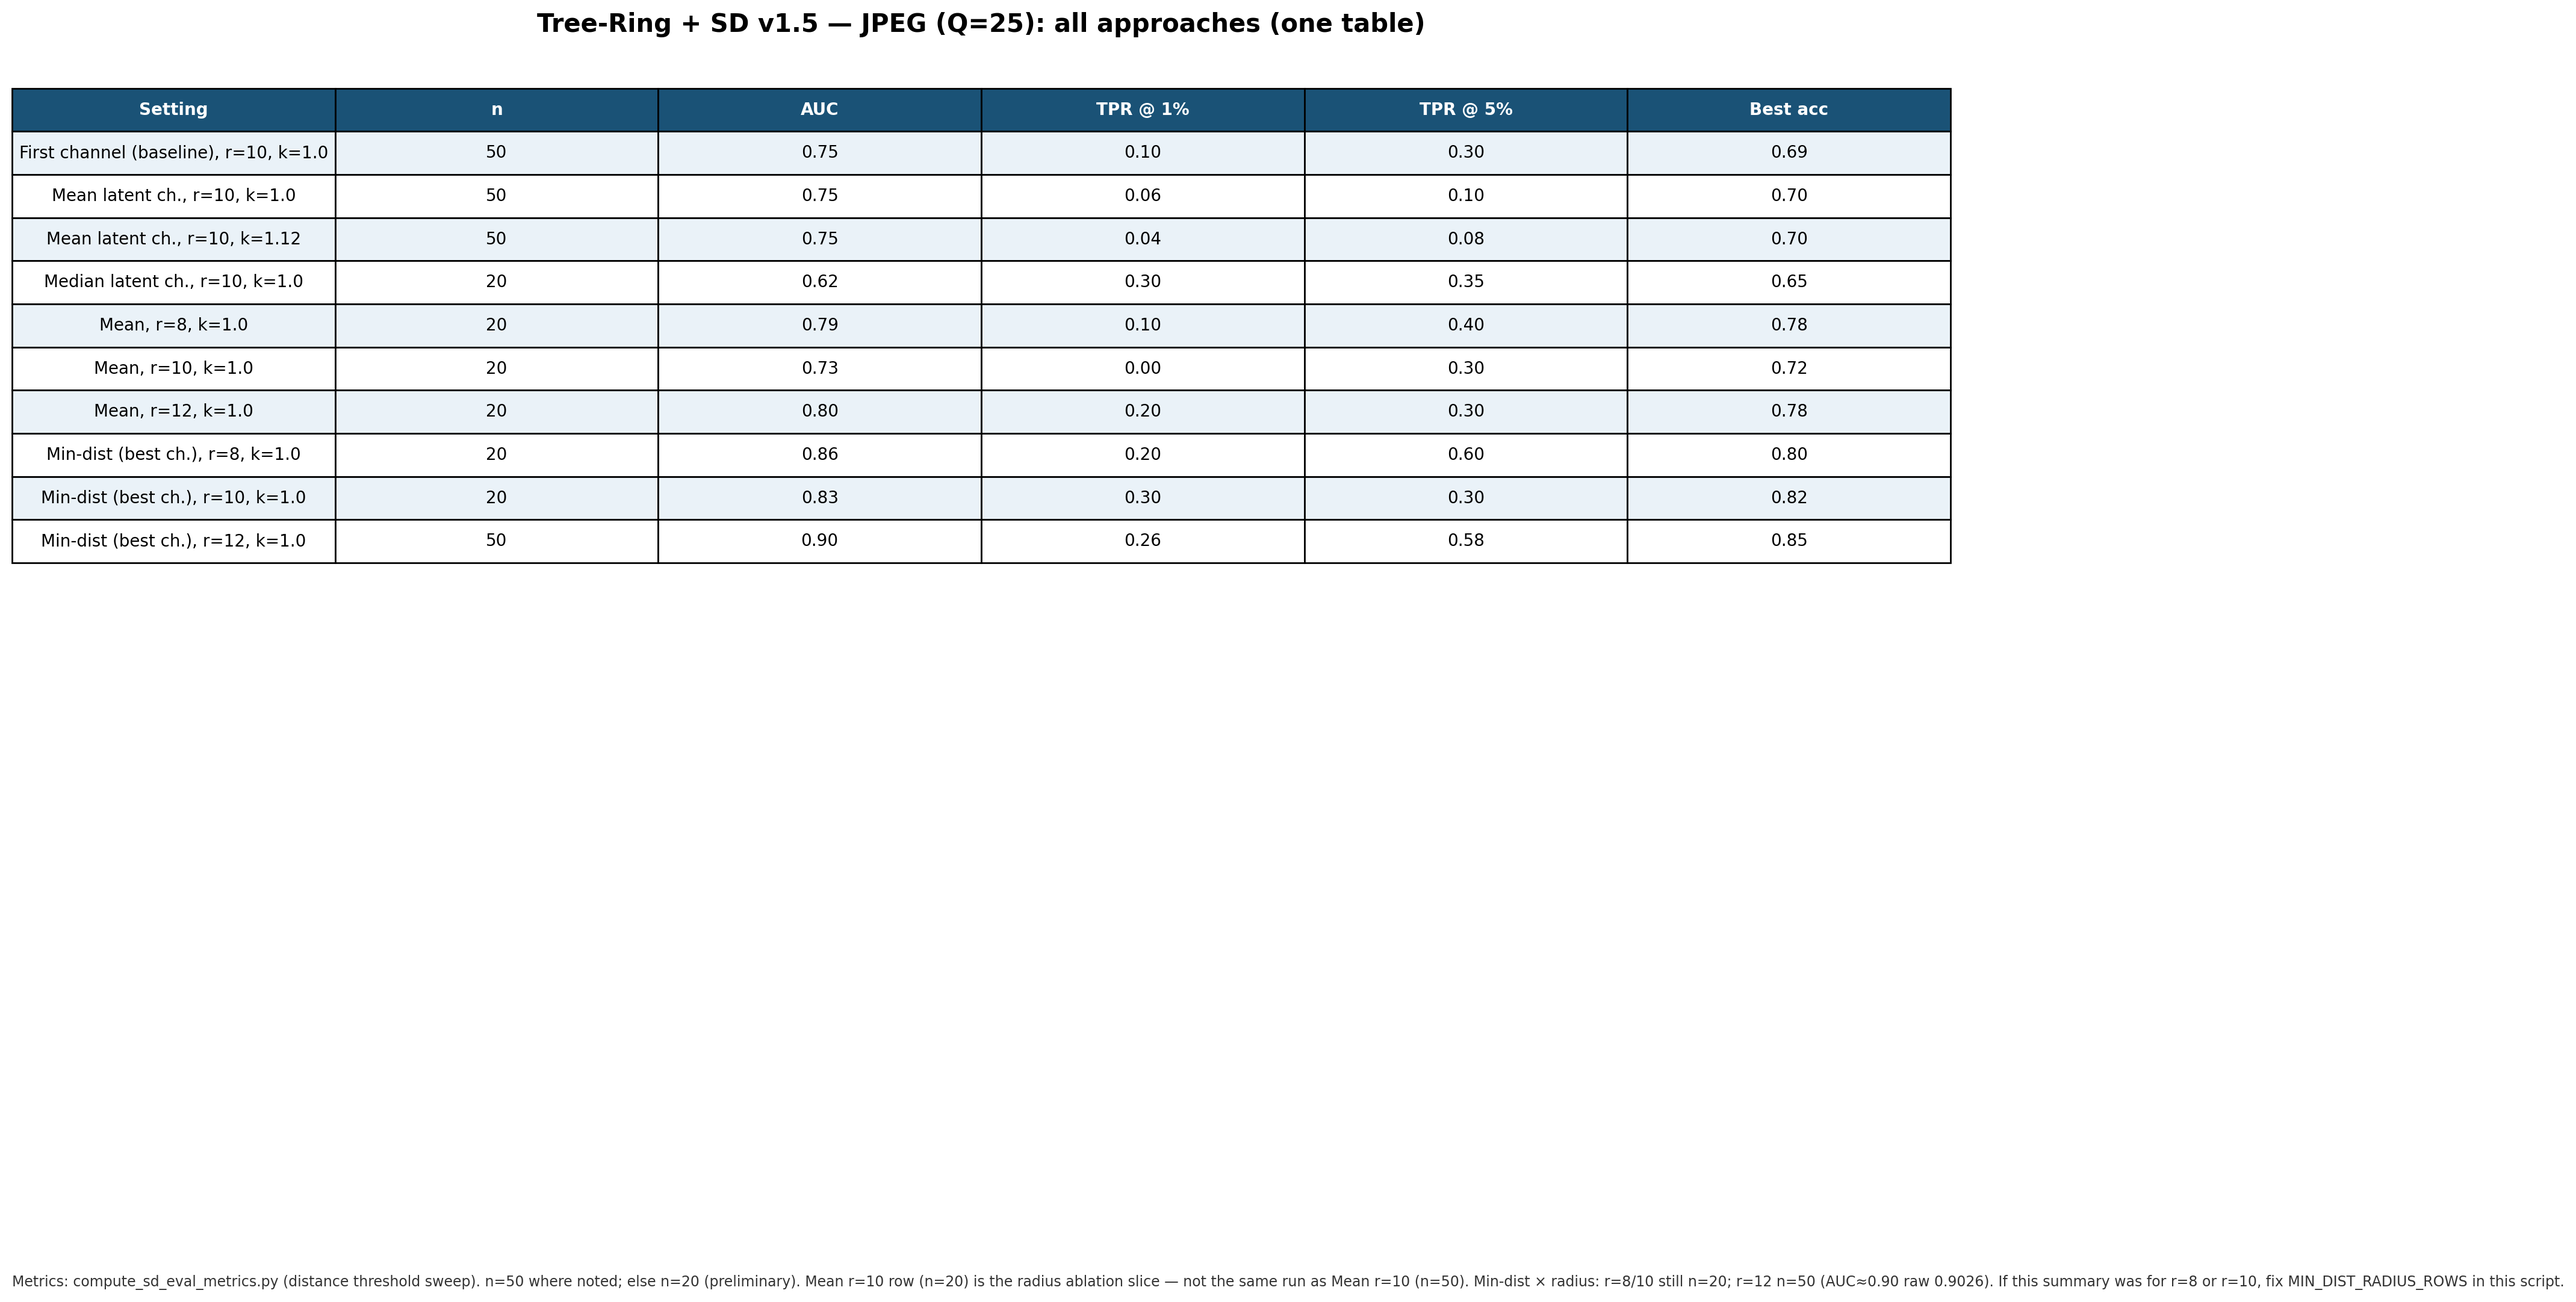
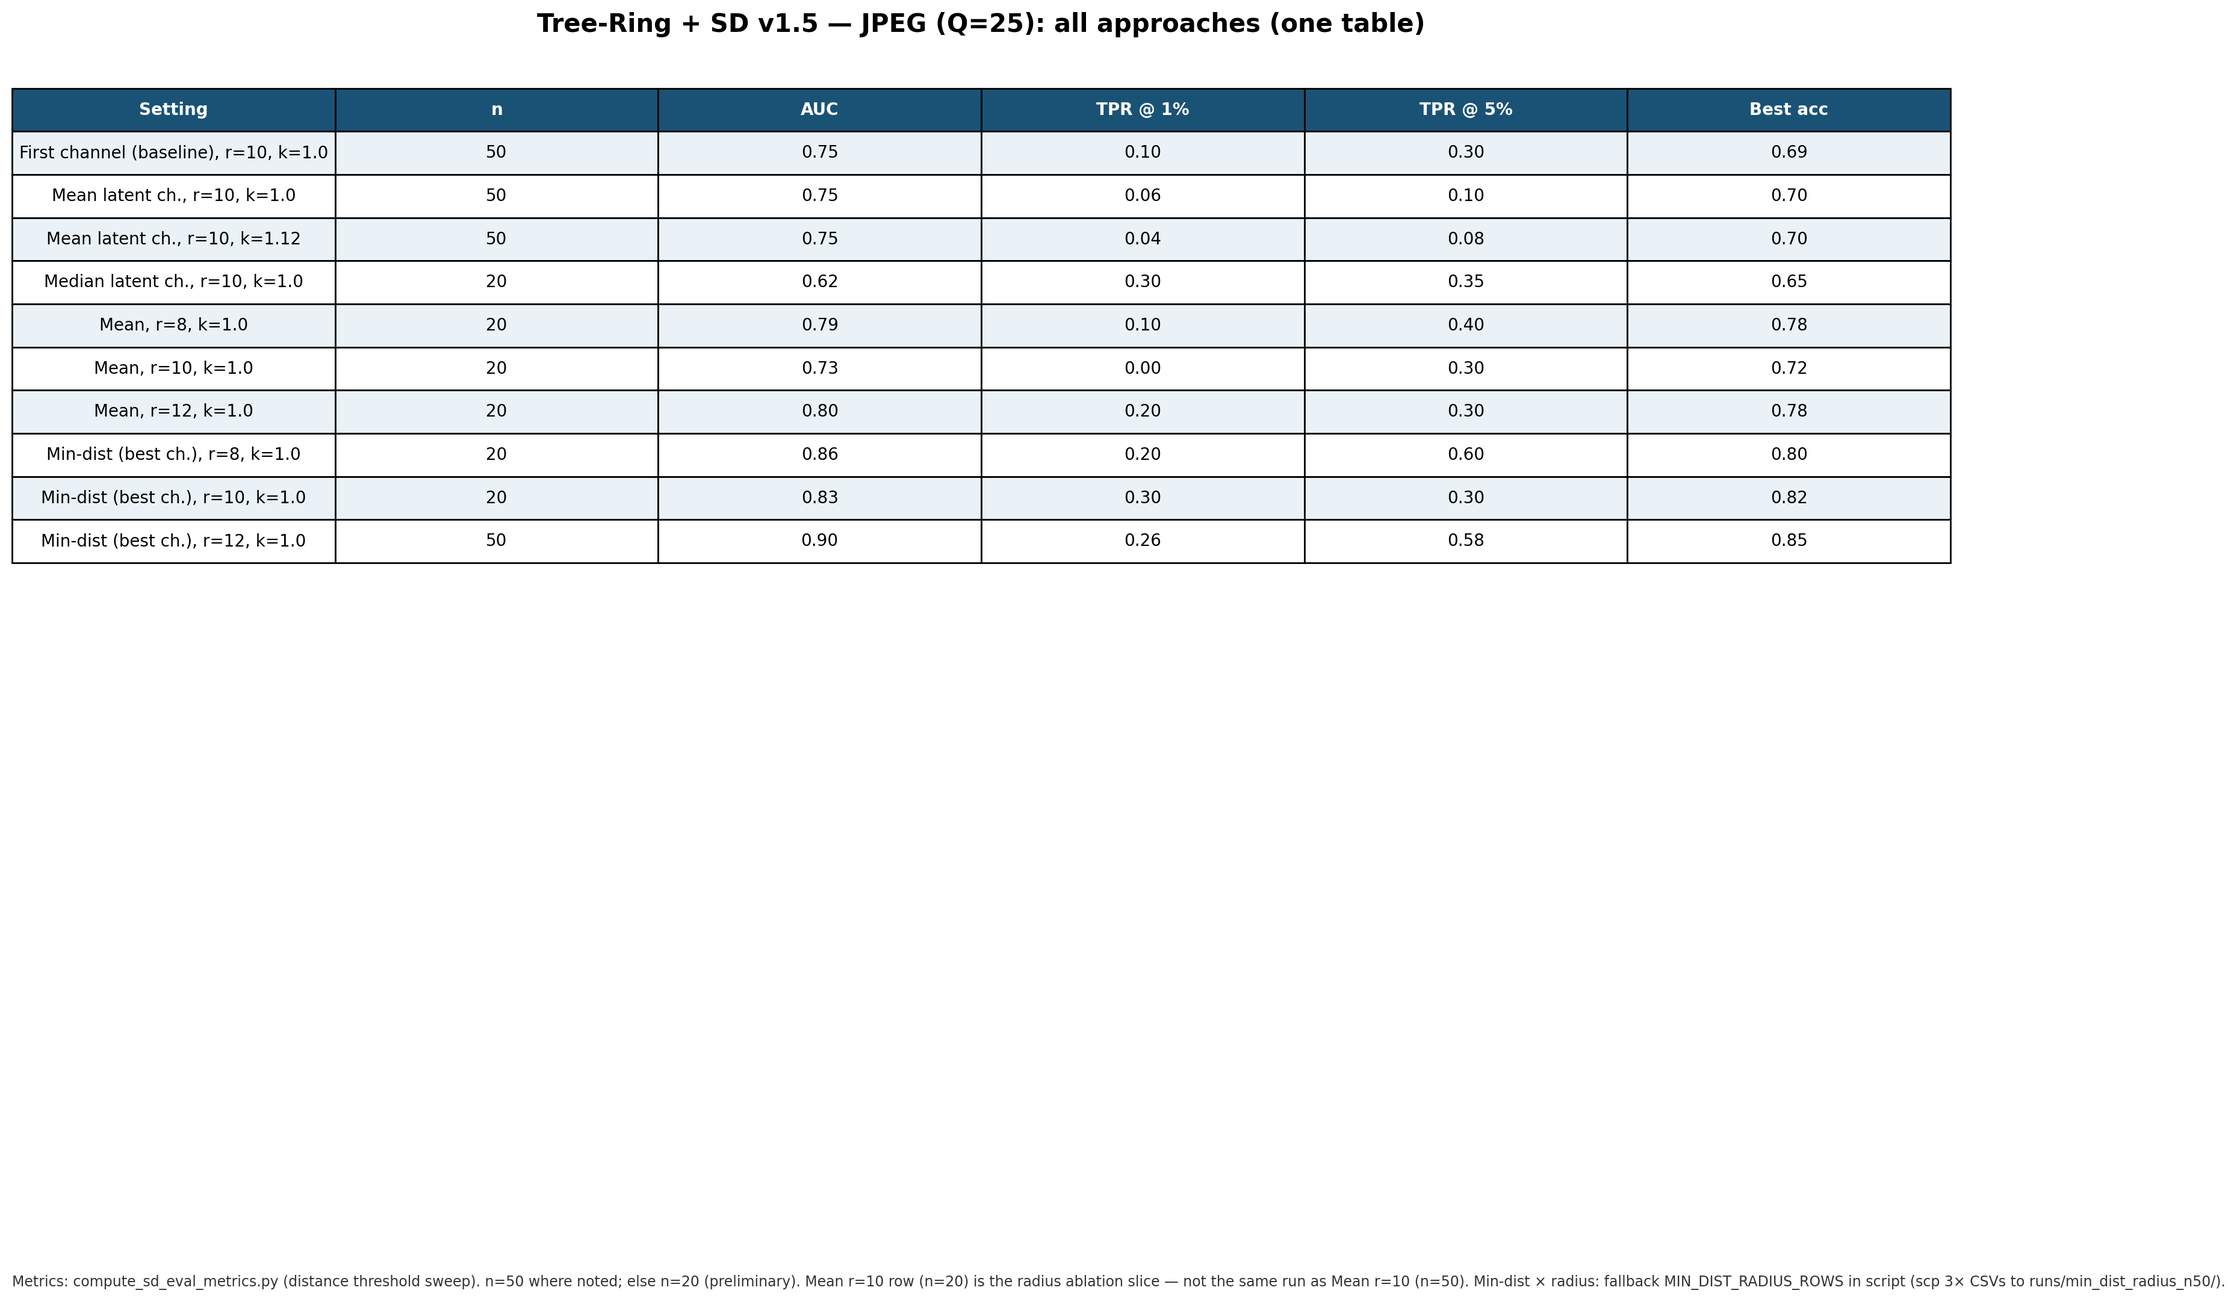
Auto-load min-dist r=8/10/12 n=50 metrics from runs/min_dist_radius_n50 CSVs
Made-with: Cursor

diff --git a/make_jpeg_approaches_table.py b/make_jpeg_approaches_table.py
@@ -4,12 +4,14 @@ Render JPEG-defense approaches as one combined table PNG (slides / reports).
 Run from repo root:
   MPLCONFIGDIR=$PWD/.mplconfig python3 make_jpeg_approaches_table.py
 
-MIN_DIST_RADIUS_ROWS: JPEG Q25, WatGPU. r=8/10 still n=20 until n=50 metrics pasted.
+Optional: copy metrics_jpeg_min_dist_r{8,10,12}_n50.csv into
+experiments/jpeg_defense/runs/min_dist_radius_n50/ — table uses them automatically.
 """
 
 from __future__ import annotations
 
 import argparse
+import csv
 from pathlib import Path
 
 import matplotlib
@@ -17,12 +19,40 @@ import matplotlib
 matplotlib.use("Agg")
 import matplotlib.pyplot as plt  # noqa: E402
 
-# (n, auc, tpr1, tpr5, best acc) — 2 decimals; r=12 n=50 from WatGPU (AUC 0.9026 raw)
+# Fallback when runs/min_dist_radius_n50/*.csv are missing (mixed n=20 / n=50).
 MIN_DIST_RADIUS_ROWS: dict[int, tuple[str, str, str, str, str]] = {
     8: ("20", "0.86", "0.20", "0.60", "0.80"),
     10: ("20", "0.83", "0.30", "0.30", "0.82"),
     12: ("50", "0.90", "0.26", "0.58", "0.85"),
 }
+
+
+def _load_min_dist_n50_from_csv(root: Path) -> dict[int, tuple[str, str, str, str, str]] | None:
+    """If all three metrics CSVs exist, return rows from the jpeg line; else None."""
+    d = root / "experiments/jpeg_defense/runs/min_dist_radius_n50"
+    out: dict[int, tuple[str, str, str, str, str]] = {}
+    for r in (8, 10, 12):
+        p = d / f"metrics_jpeg_min_dist_r{r}_n50.csv"
+        if not p.is_file():
+            return None
+        with open(p, newline="") as f:
+            reader = csv.DictReader(f)
+            jpeg = None
+            for row in reader:
+                if (row.get("attack") or "").strip() == "jpeg":
+                    jpeg = row
+                    break
+        if jpeg is None:
+            return None
+        n_wm = int(float(jpeg["n_wm"]))
+        out[r] = (
+            str(n_wm),
+            f"{float(jpeg['auc']):.2f}",
+            f"{float(jpeg['tpr_at_1pct_fpr']):.2f}",
+            f"{float(jpeg['tpr_at_5pct_fpr']):.2f}",
+            f"{float(jpeg['best_accuracy']):.2f}",
+        )
+    return out
 
 
 def main() -> None:
@@ -40,6 +70,14 @@ def main() -> None:
     out_path = root / args.out
     out_path.parent.mkdir(parents=True, exist_ok=True)
 
+    loaded = _load_min_dist_n50_from_csv(root)
+    min_dist_rows = loaded or MIN_DIST_RADIUS_ROWS
+    min_dist_source = (
+        "all n=50 from experiments/jpeg_defense/runs/min_dist_radius_n50/*.csv"
+        if loaded
+        else "fallback MIN_DIST_RADIUS_ROWS in script (scp 3× CSVs to runs/min_dist_radius_n50/)"
+    )
+
     hdr = ["Setting", "n", "AUC", "TPR @ 1%", "TPR @ 5%", "Best acc"]
     rows: list[list[str]] = [
         # r=10 default mask; detector / key tweaks
@@ -51,18 +89,18 @@ def main() -> None:
         ["Mean, r=8, k=1.0", "20", "0.79", "0.10", "0.40", "0.78"],
         ["Mean, r=10, k=1.0", "20", "0.73", "0.00", "0.30", "0.72"],
         ["Mean, r=12, k=1.0", "20", "0.80", "0.20", "0.30", "0.78"],
-        # Min-dist + radius (JPEG); r=8/10 n=20, r=12 n=50 unless all reruns pasted
+        # Min-dist + radius (JPEG)
         [
             "Min-dist (best ch.), r=8, k=1.0",
-            *MIN_DIST_RADIUS_ROWS[8],
+            *min_dist_rows[8],
         ],
         [
             "Min-dist (best ch.), r=10, k=1.0",
-            *MIN_DIST_RADIUS_ROWS[10],
+            *min_dist_rows[10],
         ],
         [
             "Min-dist (best ch.), r=12, k=1.0",
-            *MIN_DIST_RADIUS_ROWS[12],
+            *min_dist_rows[12],
         ],
     ]
 
@@ -102,8 +140,7 @@ def main() -> None:
         "Metrics: compute_sd_eval_metrics.py (distance threshold sweep). "
         "n=50 where noted; else n=20 (preliminary). "
         "Mean r=10 row (n=20) is the radius ablation slice — not the same run as Mean r=10 (n=50). "
-        "Min-dist × radius: r=8/10 still n=20; r=12 n=50 (AUC≈0.90 raw 0.9026). "
-        "If this summary was for r=8 or r=10, fix MIN_DIST_RADIUS_ROWS in this script.",
+        f"Min-dist × radius: {min_dist_source}.",
         fontsize=8.5,
         color="#333",
         verticalalignment="bottom",

diff --git a/experiments/jpeg_defense/ATTEMPTS.md b/experiments/jpeg_defense/ATTEMPTS.md
@@ -23,16 +23,13 @@
 **WatGPU folder:** `outputs_tree_ring_sd_eval_jpeg_radius/`  
 **Confirm at n=50** for r=8 and/or r=12 before strong claims.
 
-## C. Min-dist + Fourier radius (JPEG only, k=1.0)
+## C. Min-dist + Fourier radius (JPEG only, k=1.0), **all n=50**
 
-| radius | n | AUC | TPR @ 1% | TPR @ 5% | Best acc | Notes |
-|--------|---|-----|----------|----------|----------|--------|
-| 8 | 20 | 0.86 | 0.20 | 0.60 | 0.80 | Preliminary |
-| 10 | 20 | 0.83 | 0.30 | 0.30 | 0.82 | Same as §A min-dist row |
-| 12 | 50 | 0.90 | 0.26 | 0.58 | 0.85 | WatGPU `metrics_jpeg_min_dist_r12_n50` (AUC 0.9026 raw) |
+WatGPU files: `metrics_jpeg_min_dist_r8_n50.csv`, `metrics_jpeg_min_dist_r10_n50.csv`, `metrics_jpeg_min_dist_r12_n50.csv` (same folder). **All three radii** are produced by `scripts/run_jpeg_min_dist_radius_ablation.sh`.
 
-**WatGPU folder:** `outputs_tree_ring_sd_eval_jpeg_min_dist_radius/` (gitignored).  
-**Script:** `scripts/run_jpeg_min_dist_radius_ablation.sh`. If §C r=12 row is wrong radius, check which `metrics_jpeg_min_dist_r*_n50` file the paste came from.
+**Known (r=12 jpeg row):** AUC **0.90** (0.9026 raw), TPR@1% **0.26**, TPR@5% **0.58**, best acc **0.85**. For **r=8** and **r=10** n=50 numbers in the repo figure, `scp` the three CSVs into [`runs/min_dist_radius_n50/`](runs/min_dist_radius_n50/) and run `make_jpeg_approaches_table.py` (it reads them automatically).
+
+**WatGPU folder:** `outputs_tree_ring_sd_eval_jpeg_min_dist_radius/` (gitignored).
 
 ## Example commands
 

diff --git a/experiments/jpeg_defense/runs/min_dist_radius_n50/README.md b/experiments/jpeg_defense/runs/min_dist_radius_n50/README.md
@@ -1,0 +1,14 @@
+# Min-dist × radius, n=50 (WatGPU metrics)
+
+Copy the three metrics CSVs from WatGPU, then regenerate the big table PNG:
+
+```bash
+# From your laptop (repo root)
+mkdir -p experiments/jpeg_defense/runs/min_dist_radius_n50
+scp 'f82xu@watgpu.cs.uwaterloo.ca:~/diffusion_watermarking/outputs_tree_ring_sd_eval_jpeg_min_dist_radius/metrics_jpeg_min_dist_r{8,10,12}_n50.csv' \
+  experiments/jpeg_defense/runs/min_dist_radius_n50/
+
+MPLCONFIGDIR=$PWD/.mplconfig python3 make_jpeg_approaches_table.py
+```
+
+If those three files are present, `make_jpeg_approaches_table.py` fills the **min-dist r=8 / 10 / 12** rows from them (all **n=50**). Otherwise it falls back to hardcoded values in the script.

diff --git a/experiments/jpeg_defense/runs/README.md b/experiments/jpeg_defense/runs/README.md
@@ -3,6 +3,8 @@
 | Subfolder | Contents |
 |-----------|----------|
 | **`median_n20/`** | Median-channel ablation at n=20 (CSV + metrics table). |
+| **`min_dist_n20/`** | Min-dist channel detector, JPEG Q25, n=20 (CSV + metrics). |
+| **`min_dist_radius_n50/`** | Drop `metrics_jpeg_min_dist_r{8,10,12}_n50.csv` here → auto-fill [`make_jpeg_approaches_table.py`](../../make_jpeg_approaches_table.py). |
 | **`k112_smoke/`** | Leftover smoke-test folder (can delete if empty). |
 
 **Full radius ablation + mean/k112 CSVs** (large) stay on WatGPU / gitignored dirs:
